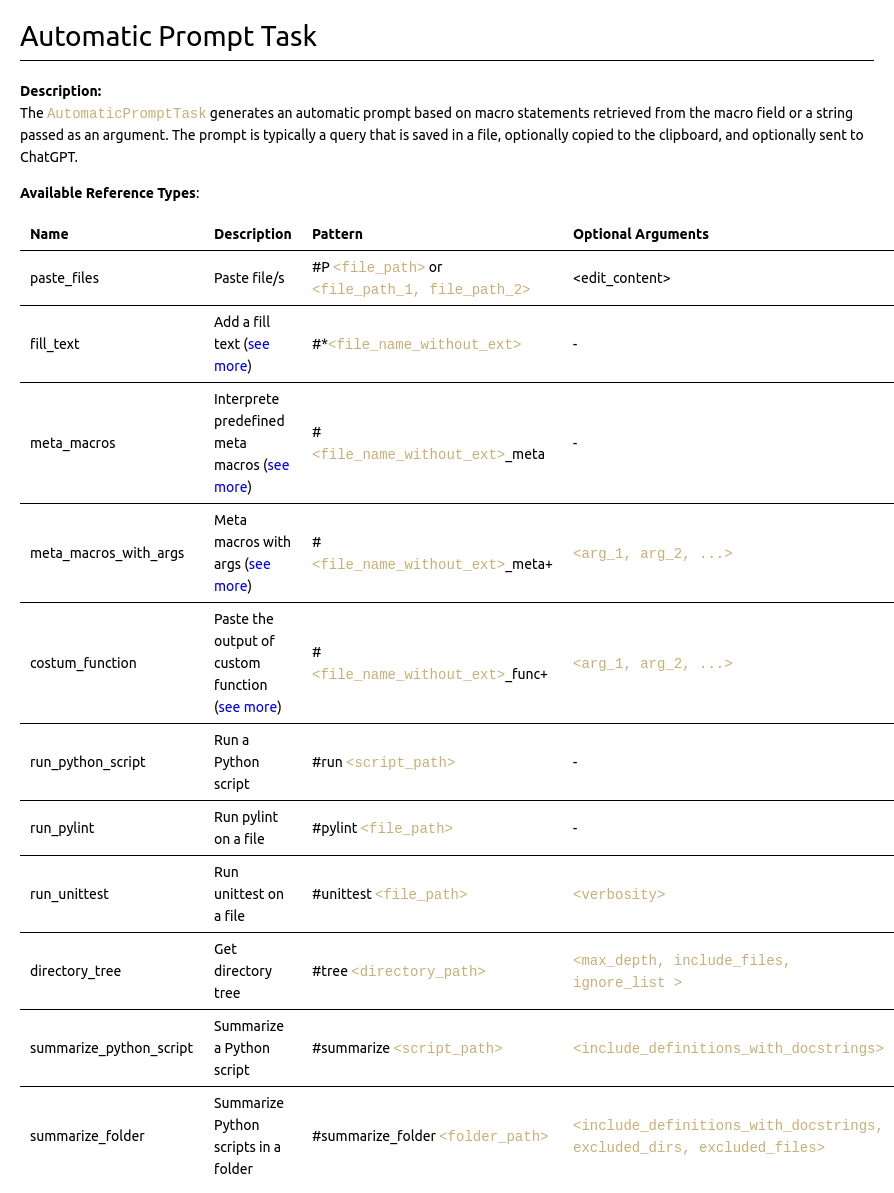
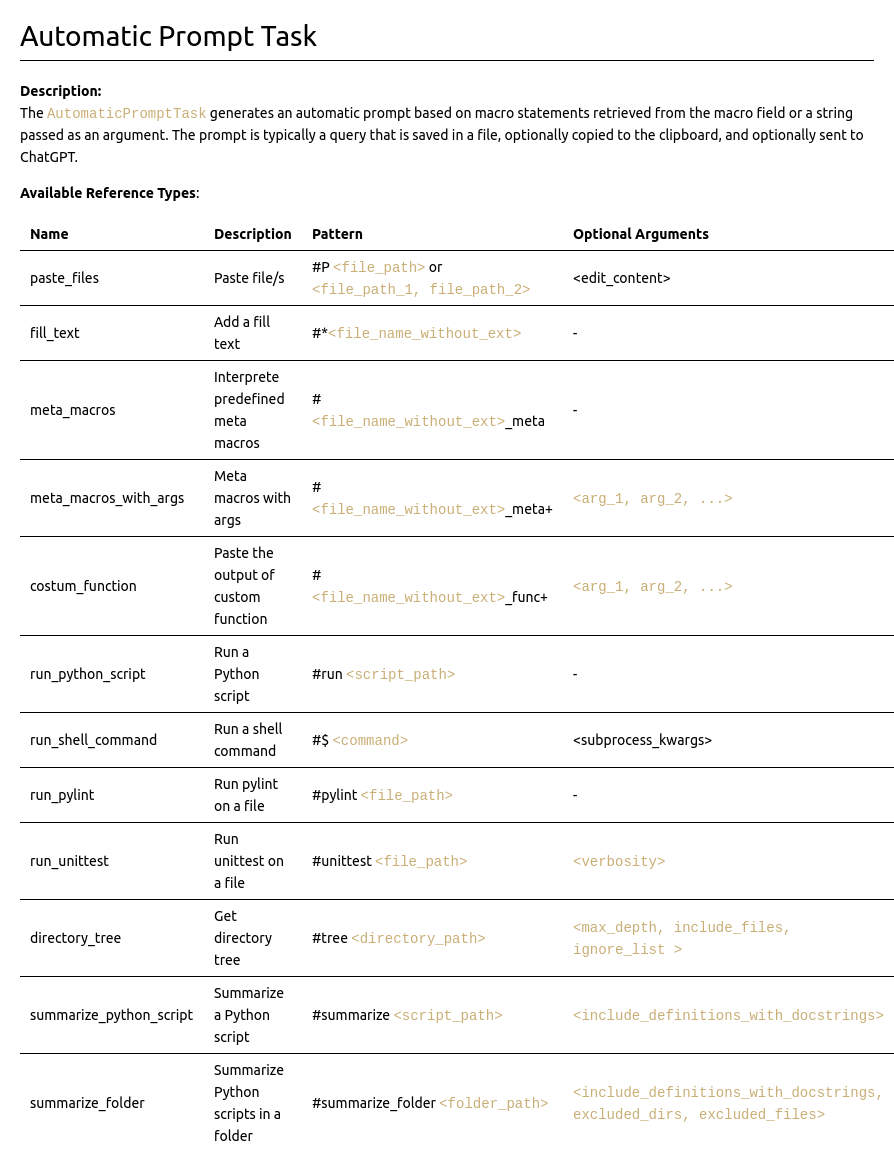
Add shell command macro to automated prompt task

diff --git a/tasks/tasks/automatic_prompt/line_validation.py b/tasks/tasks/automatic_prompt/line_validation.py
@@ -47,6 +47,12 @@ run_script_tag = TAGS.RUN_SCRIPT.value
 run_script_pattern = rf"{run_script_tag}\s(\S+\.py|{CURRENT_FILE_TAG})"
 RUN_SCRIPT_PATTERN = re.compile(run_script_pattern)
 
+# RUN_SHELL_COMMAND_PATTERN
+run_shell_command_tag = TAGS.RUN_SHELL_COMMAND.value
+run_shell_command_pattern = rf"{run_shell_command_tag}\s*([^\n\(\["
+run_shell_command_pattern += r"\{]+)"
+RUN_SHELL_COMMAND_PATTERN = re.compile(run_shell_command_pattern)
+
 # RUN_PYLINT_PATTERN
 run_pylint_tag = TAGS.RUN_PYLINT.value
 run_pylint_pattern = rf"{run_pylint_tag}\s(\S+\.py|{CURRENT_FILE_TAG})"
@@ -89,35 +95,35 @@ SEND_PROMPT_TAG = TAGS.SEND_PROMPT.value
 
 
 def line_validation_for_begin_text(line):
-    """ Validate if the line is a start tag. """
+    """Validate if the line is a start tag."""
     if BEGIN_TAG in line:
         return line.split(BEGIN_TAG, 1)[1].strip()
     return None
 
 
 def line_validation_for_end_text(line):
-    """ Validate if the line is an end tag. """
+    """Validate if the line is an end tag."""
     if END_TAG in line:
         return line.split(END_TAG, 1)[1].strip()
     return None
 
 
 def line_validation_for_title(line):
-    """ Validate if the line is a title. """
+    """Validate if the line is a title."""
     if TITLE_TAG in line:
         return line.replace(TITLE_TAG, "").strip()
     return None
 
 
 def line_validation_for_normal_text(line):
-    """ Validate if the line is a normal text. """
+    """Validate if the line is a normal text."""
     if NORMAL_TEXT_TAG in line:
         return line.replace(NORMAL_TEXT_TAG, "").strip()
     return None
 
 
 def line_validation_for_paste_current_file(line):
-    """ Validate if the line is a current file reference. """
+    """Validate if the line is a current file reference."""
     if PASTE_CURRENT_FILE_TAG in line:
         edit_content = False
         if args := retrieve_arguments_in_round_brackets(line, 1):
@@ -128,7 +134,7 @@ def line_validation_for_paste_current_file(line):
 
 
 def line_validation_for_paste_files(line):
-    """ Validate if the line contains references to files. """
+    """Validate if the line contains references to files."""
     if match := re.search(PASTE_FILES_PATTERN, line):
         file_names = match.group(1).split(",")
         file_names = [file_name.strip() for file_name in file_names]
@@ -141,14 +147,14 @@ def line_validation_for_paste_files(line):
 
 
 def line_validation_for_error(line):
-    """ Validate if the line is an error. """
+    """Validate if the line is an error."""
     if ERROR_TAG in line:
         return True
     return None
 
 
 def line_validation_for_fill_text(line):
-    """ Validate if the line is a fill text. """
+    """Validate if the line is a fill text."""
     if match := FILL_TEXT_PATTERN.match(line):
         placeholder = match.group(1)
         return placeholder
@@ -156,14 +162,14 @@ def line_validation_for_fill_text(line):
 
 
 def line_validation_for_meta_macros(line):
-    """ Validate if the line is a meta macros. """
+    """Validate if the line is a meta macros."""
     if result := META_MACROS_PATTERN.match(line):
         return result.group(1)
     return None
 
 
 def line_validation_for_meta_macros_with_args(line):
-    """ Validate if the line is a meta macros with arguments. """
+    """Validate if the line is a meta macros with arguments."""
     if match := META_MACROS_WITH_ARGS_PATTERN.match(line):
         name = match.group(1)
         arguments = retrieve_arguments_in_round_brackets(line)
@@ -172,7 +178,7 @@ def line_validation_for_meta_macros_with_args(line):
 
 
 def line_validation_for_costum_function(line):
-    """ Validate if the line is a costum function. """
+    """Validate if the line is a costum function."""
     if match := COSTUM_FUNCTION_PATTERN.match(line):
         name = match.group(1)
         arguments = retrieve_arguments_in_round_brackets(line)
@@ -181,21 +187,33 @@ def line_validation_for_costum_function(line):
 
 
 def line_validation_for_run_python_script(line):
-    """ Validate if the line is a run python script. """
+    """Validate if the line is a run python script."""
     if match := RUN_SCRIPT_PATTERN.match(line):
         return match.group(1)
     return None
 
 
+def line_validation_for_run_shell_command(line):
+    """Validate if the line is a run shell command."""
+    if match := RUN_SHELL_COMMAND_PATTERN.match(line):
+        kwargs = {}
+        if arguments := retrieve_arguments_in_round_brackets(line, 1):
+            kwargs = arguments[0]
+            check_type(kwargs, dict, "for run shell command")
+        command = match.group(1)
+        return command, kwargs
+    return None
+
+
 def line_validation_for_run_pylint(line):
-    """ Validate if the line is a run pylint. """
+    """Validate if the line is a run pylint."""
     if match := RUN_PYLINT_PATTERN.match(line):
         return match.group(1)
     return None
 
 
 def line_validation_for_run_unittest(line):
-    """ Validate if the line is a run unittest. """
+    """Validate if the line is a run unittest."""
     if match := re.search(UNITTEST_PATTERN, line):
         verbosity = 1
         if arguments := retrieve_arguments_in_round_brackets(line, 1):
@@ -206,7 +224,7 @@ def line_validation_for_run_unittest(line):
 
 
 def line_validation_for_directory_tree(line):
-    """ Validate if the line is a directory tree. """
+    """Validate if the line is a directory tree."""
     if match := DIRECTORY_TREE_PATTERN.match(line):
         dir = match.group(1)
         max_depth = DIRECTORY_TREE_DEFAULTS.MAX_DEPTH.value
@@ -227,7 +245,7 @@ def line_validation_for_directory_tree(line):
 
 
 def line_validation_for_summarize_python_script(line):
-    """ Validate if the line is a summarize python script. """
+    """Validate if the line is a summarize python script."""
     if match := SUMMARIZE_PYTHON_SCRIPT_PATTERN.match(line):
         include_definitions_without_docstrings = False
         if arguments := retrieve_arguments_in_round_brackets(line, 1):
@@ -239,7 +257,7 @@ def line_validation_for_summarize_python_script(line):
 
 
 def line_validation_for_summarize_folder(line):
-    """ Validate if the line is a summarize folder. """
+    """Validate if the line is a summarize folder."""
     if match := SUMMARIZE_FOLDER_PATTERN.match(line):
         dir = match.group(1)
         include_definitions_without_docstrings = False
@@ -262,7 +280,7 @@ def line_validation_for_summarize_folder(line):
 
 
 def line_validation_for_send_prompt(line):
-    """ Validate the line to check if it is a valid line to make a prompt. """
+    """Validate the line to check if it is a valid line to make a prompt."""
     if SEND_PROMPT_TAG in line:
         modify_inplace = False
         max_tokens = None

diff --git a/tasks/tasks/automatic_prompt/automatic_prompt_interpreter.py b/tasks/tasks/automatic_prompt/automatic_prompt_interpreter.py
@@ -1,4 +1,5 @@
 import os
+import subprocess
 
 from tasks.configs.constants import AUTOMATIC_PROMPT_MACROS as MACROS
 from tasks.tasks.automatic_prompt.line_validation import (
@@ -13,6 +14,7 @@ from tasks.tasks.automatic_prompt.line_validation import (
     line_validation_for_meta_macros_with_args,
     line_validation_for_costum_function,
     line_validation_for_run_python_script,
+    line_validation_for_run_shell_command,
     line_validation_for_run_pylint,
     line_validation_for_run_unittest,
     line_validation_for_paste_current_file,
@@ -46,7 +48,9 @@ from tasks.utils.shared.format_identifiers_as_code import format_identifiers_as_
 
 
 class AutomaticPromptInterpreter(MacroInterpreter):
-    """ Interpreter for creating a prompt from macros within text lines. """
+    """
+    Interpreter for creating a prompt from macros within text lines.
+    """
 
     def _check_exists(self, file_path, usage_description):
         if not os.path.exists(file_path):
@@ -83,8 +87,8 @@ class AutomaticPromptInterpreter(MacroInterpreter):
         return None
 
     def validate_paste_current_file_macro(self, line):
-        # Special File paste case as the interest is in the file content
-        # without macros in case there are any
+        # Special File paste case as the interest is in the file content without
+        # macros in case there are any
         if result := line_validation_for_paste_current_file(line):
             current_content = self._read_file(
                 self.current_file, "paste current file reference"
@@ -209,6 +213,18 @@ class AutomaticPromptInterpreter(MacroInterpreter):
             return (MACROS.RUN_PYTHON_SCRIPT, default_title, script_output)
         return None
 
+    def validate_run_shell_command_macro(self, line):
+        if result := line_validation_for_run_shell_command(line):
+            command, kwargs = result
+            kwargs.setdefault("shell", True)
+            # Force 'capture_output' and 'text' kwargs to True
+            kwargs["capture_output"] = True
+            kwargs["text"] = True
+            result = subprocess.run(command, **kwargs)
+            output = result.stderr if result.returncode != 0 else result.stdout
+            return (MACROS.RUN_SHELL_COMMAND, "$ " + command, output)
+        return None
+    
     def validate_run_pylint_macro(self, line):
         if result := line_validation_for_run_pylint(line):
             script_path = find_file_sloppy(result, self.profile.root, self.current_file)
@@ -229,7 +245,7 @@ class AutomaticPromptInterpreter(MacroInterpreter):
                 module=execute_unittests_from_file,
                 args=[script_path, cwd, str(verbosity)],
                 env_python_path=python_env,
-                cwd=cwd
+                cwd=cwd,
             )
             unittest_output = render_to_markdown(unittest_output, format="shell")
             default_title = "Unittest Output"
@@ -364,10 +380,9 @@ class AutomaticPromptInterpreter(MacroInterpreter):
         send_prompt_kwargs = {}
         for macro_data in updated_macros_data_1:
             if macro_data[0] == MACROS.SEND_PROMPT:
-                # if len(send_prompt) > 0:
-                #     msg = "Multiple send_prompt macros found in the prompt."
-                #     raise ValueError(msg)
-                # Last send_prompt macro will be used
+                # if len(send_prompt) > 0: msg = "Multiple send_prompt macros
+                # found in the prompt." raise ValueError(msg) Last send_prompt
+                # macro will be used
                 modify_inplace, max_tokens = macro_data[1]
                 send_prompt_kwargs["modify_inplace"] = modify_inplace
                 send_prompt_kwargs["max_tokens"] = max_tokens

diff --git a/tasks/tasks/automatic_prompt/automatic_prompt_task.py b/tasks/tasks/automatic_prompt/automatic_prompt_task.py
@@ -18,6 +18,7 @@ Available reference types:
 | meta_macros_with_args    | Meta macros with args                   | #<file_name_without_ext>_meta+                       | <arg_1, arg_2, ...>                                             |
 | costum_function          | Paste the output of custom function     | #<file_name_without_ext>_func+                       | <arg_1, arg_2, ...>                                             |
 | run_python_script        | Run a Python script                     | #run <script_path>                                   | -                                                               |
+| run_shell_command        | Run a shell command                     | #$ <command>                                         | <subprocess kwargs>                                             |
 | run_pylint               | Run pylint on a file                    | #run_pylint <file_path>                              | -                                                               |
 | run_unittest             | Run unittest on a file                  | #run_unittest <file_path>                            | <verbosity>                                                     |
 | directory_tree           | Get directory tree                      | #tree <directory_path>                               | <max_depth, include_files, ignore_list>                         |

diff --git a/tasks/configs/constants.py b/tasks/configs/constants.py
@@ -25,6 +25,7 @@ class AUTOMATIC_PROMPT_MACROS(Enum):
     FILL_TEXT = "fill_text"
     COSTUM_FUNCTION = "costum_function"
     RUN_PYTHON_SCRIPT = "run_python_script"
+    RUN_SHELL_COMMAND = "run_shell_command"
     RUN_PYLINT = "run_pylint"
     RUN_UNITTEST = "run_unittest"
     DIRECTORY_TREE = "directory_tree"
@@ -50,6 +51,7 @@ class AUTOMATIC_PROMPT_TAGS(Enum):
     FILL_TEXT = r"#\*"
     RUN_SCRIPT = "#run"
     RUN_PYLINT = "#pylint"
+    RUN_SHELL_COMMAND = r"#\$"
     UNITTEST = "#unittest"
     DIRECTORY_TREE = "#tree"
     SUMMARIZE_PYTHON_SCRIPT = "#summarize"

diff --git a/tasks/management/support_files/CHEATSHEET.md b/tasks/management/support_files/CHEATSHEET.md
@@ -62,6 +62,7 @@ The `AutomaticPromptTask` generates an automatic prompt based on macro statement
 | meta_macros_with_args   | Meta macros with args  ([see more](./costumizations/meta_macros_with_args/template_2.py)) | #`<file_name_without_ext>`_meta+ | `<arg_1, arg_2, ...>`                |
 | costum_function         | Paste the output of custom function  ([see more](./costumizations/functions/costum_function_template/template_3.py))   | #`<file_name_without_ext>`_func+                 | `<arg_1, arg_2, ...>`                |
 | run_python_script       | Run a Python script                   | #run `<script_path>`                             | -                                    |
+| run_shell_command       | Run a shell command                   | #$ `<command>`                                   | <subprocess_kwargs>                  |
 | run_pylint              | Run pylint on a file                  | #pylint `<file_path>`                            | -                                    |
 | run_unittest            | Run unittest on a file                | #unittest `<file_path>`                          | `<verbosity>`                        |
 | directory_tree          | Get directory tree                    | #tree `<directory_path>`                         | `<max_depth, include_files, ignore_list >` |

diff --git a/README.md b/README.md
@@ -122,6 +122,7 @@ The `AutomaticPromptTask` generates an automatic prompt based on macro statement
 | meta_macros_with_args   | Meta macros with args  | #`<file_name_without_ext>`_meta+ | `<arg_1, arg_2, ...>`                |
 | costum_function         | Paste the output of custom function   | #`<file_name_without_ext>`_func+                 | `<arg_1, arg_2, ...>`                |
 | run_python_script       | Run a Python script                   | #run `<script_path>`                             | -                                    |
+| run_shell_command       | Run a shell command                   | #$ `<command>`                                   | <subprocess_kwargs>                  |
 | run_pylint              | Run pylint on a file                  | #pylint `<file_path>`                            | -                                    |
 | run_unittest            | Run unittest on a file                | #unittest `<file_path>`                          | `<verbosity>`                        |
 | directory_tree          | Get directory tree                    | #tree `<directory_path>`                         | `<max_depth, include_files, ignore_list >` |
